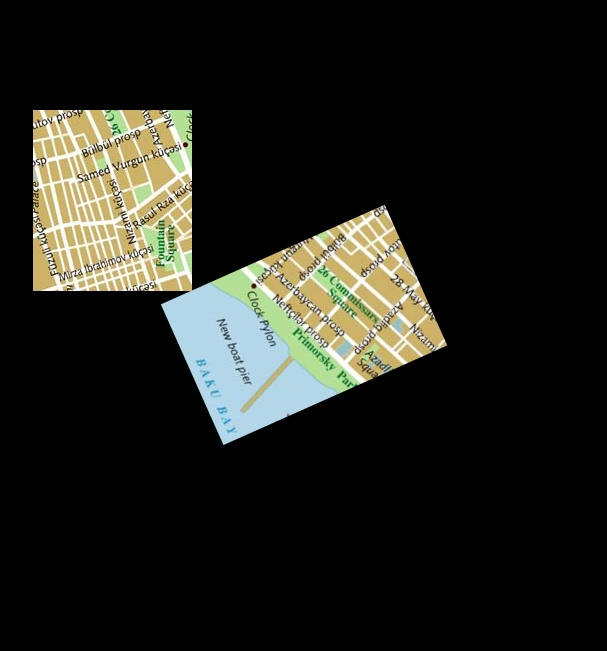
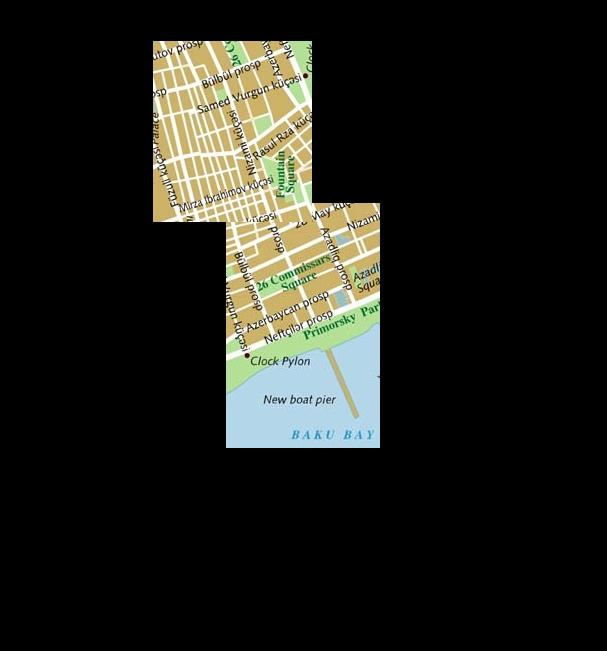
Algorithm is fully implemented, bugs should be found, the speed needs to be improved

Changed region(s): [[0.0297, 0.0614, 0.7414, 0.7066]]

diff --git a/ImageStitcher.py b/ImageStitcher.py
@@ -15,6 +15,7 @@ class ImageStitcher:
     BestY = 1
     Best_Rotate = 1
     canvas = None
+    coor_system = None
 
     def __init__(self, img1, img2, resize):
         self.img1 = img1
@@ -25,7 +26,6 @@ class ImageStitcher:
         self.h1, self.w1 = self.img1.shape[:2]
         self.h2, self.w2 = self.img2.shape[:2]
         self.img2_canvas_size = int(math.sqrt(math.pow(self.h2,2)+math.pow(self.w2,2)))
-
         print("H1: ",self.h1,"  W1: ",self.w1,"\nH2: ",self.h2,"  W2: ",self.w2)
         
     def getCornersOfImages(self,SHIFT):
@@ -33,8 +33,8 @@ class ImageStitcher:
         x_OffsetIMG2 = int((self.img2_canvas_size-self.w2)/2)
         SHIFT_X,SHIFT_Y, thetha = SHIFT
         rectangle1 = [(SHIFT_X,SHIFT_Y),(SHIFT_X,self.h1+SHIFT_Y),(self.w1+SHIFT_X,self.h1+SHIFT_Y),(self.w1+SHIFT_X,SHIFT_Y)]
-        rectangle2 = [(self.w1+x_OffsetIMG2,self.h1+x_OffsetIMG2),(self.w1+x_OffsetIMG2,self.h1+x_OffsetIMG2+self.h2),
-        (self.w1+x_OffsetIMG2+self.w2,self.h1+x_OffsetIMG2),(self.w1+x_OffsetIMG2+self.w2,self.h1+x_OffsetIMG2+self.h2)]
+        rectangle2 = [(self.w1+x_OffsetIMG2,self.h1+y_OffsetIMG2),(self.w1+x_OffsetIMG2,self.h1+y_OffsetIMG2+self.h2),
+        (self.w1+x_OffsetIMG2+self.w2,self.h1+y_OffsetIMG2+self.h2),(self.w1+x_OffsetIMG2+self.w2,self.h1+y_OffsetIMG2)]
         return rectangle1,rectangle2
 
     def calculateLoss(self,SHIFT):
@@ -43,15 +43,12 @@ class ImageStitcher:
         print("SHIFT_X: ",SHIFT_X,"    SHIFT_Y: ",SHIFT_Y,"    Angle: ",thetha)
         if (SHIFT_X>=self.w1+self.img2_canvas_size-self.img2_canvas_size*0.05 or SHIFT_Y>=self.h1+self.img2_canvas_size-self.img2_canvas_size*0.05 or SHIFT_Y<self.img2_canvas_size*0.05 or SHIFT_X<self.img2_canvas_size*0.05):
             return 255*3*self.w1*self.h1*self.h2*self.w2
-        coor_system = CoordinateSystem(self.getCornersOfImages(SHIFT))
-        coordinates_of_intersection = coor_system.get_indecies_on_rotate(SHIFT_X, SHIFT_Y,thetha)
-
-        image1 = self.canvas[:self.h1,:self.w1,:3]
-        image2 = self.canvas[self.h1+int((self.img2_canvas_size-self.h2)/2):self.h2+self.h1+int((self.img2_canvas_size-self.h2)/2), 
-        self.w1+int((self.img2_canvas_size-self.w2)/2):self.w1+self.w2+int((self.img2_canvas_size-self.w2)/2),
-        :3]
-
-        difference = np.square(np.subtract(image1[coordinates_of_intersection[0]],image2[coordinates_of_intersection[1]]))
+        self.coor_system.set_rectangles(self.getCornersOfImages((SHIFT_X,SHIFT_Y, thetha)))
+        coordinates_of_intersection = self.coor_system.get_indecies_on_rotate(SHIFT_X, SHIFT_Y,thetha)
+        if (coordinates_of_intersection == -1):
+            return 255*3*self.w1*self.h1*self.h2*self.w2
+        #self.drawImage(SHIFT_X, SHIFT_Y, thetha,100)
+        difference = np.square(np.subtract(self.canvas[coordinates_of_intersection[0]],self.canvas[coordinates_of_intersection[1]]))
         loss = np.mean(difference)
         return loss
 
@@ -83,6 +80,7 @@ class ImageStitcher:
         self.w1+int((self.img2_canvas_size-self.w2)/2):self.w1+self.w2+int((self.img2_canvas_size-self.w2)/2),
         :3] = self.img2
         self.canvas[:self.h1,:self.w1,:3] = self.img1
+        self.coor_system = CoordinateSystem((len(self.canvas[0]/2),len(self.canvas)/2))
 
         savedParameters = [[],[]]
         intitial_cors_x = np.linspace(0.1,1,n,False)

diff --git a/CoordinateSystem.py b/CoordinateSystem.py
@@ -8,17 +8,12 @@ class CoordinateSystem:
     rectangle2 = []
     centreOfRectangle2 = None
 
-    def __init__(self, rectangles):
-        self.rectangle1, self.rectangle2 = rectangles
-        self.centreOfRectangle2 = self.getCentreOfRectangle(self.rectangle2)
-
-    def getCentreOfRectangle(self,coordinates):
-        p = Polygon(coordinates)
-        bound = p.bounds
-        centreX = (bound[2] + bound[0])/2
-        centreY = (bound[3] + bound[1])/2
-        return centreX,centreY
+    def __init__(self,centre):
+        self.centreOfRectangle2 = centre
     
+    def set_rectangles(self,rectangles):
+        self.rectangle1, self.rectangle2 = rectangles
+
     def rotateTranslateCoordinates(self,coor,centreX,centreY,angle):
         X,Y = coor
         tempX = X - centreX
@@ -31,7 +26,7 @@ class CoordinateSystem:
 
     def rotateCornersOfImage2(self,angle):
         newRectangle = []
-        for coor in self.rectangle1:
+        for coor in self.rectangle2:
             newCorner = self.rotateTranslateCoordinates(coor,self.centreOfRectangle2[0],self.centreOfRectangle2[1],angle)
             newRectangle.append(newCorner)
         self.rectangle2 = newRectangle
@@ -39,15 +34,20 @@ class CoordinateSystem:
     def get_intersection_polygon(self):
         p1 = Polygon(self.rectangle1)
         p2 = Polygon(self.rectangle2)
-        intersection = p1.intersection(p2)
+        try:
+            intersection = p1.intersection(p2)
+        except:
+            print("PORCO")
         return intersection
 
     def get_coordinates_of_intersection(self):
         intersection = self.get_intersection_polygon()
+        if (intersection.area == 0.0):
+            return []
         coordinatesInPolygon = []
         bounds = intersection.bounds
-        for y in range(int(bounds[1]),int(bounds[3])):
-            for x in range(int(bounds[0]),int(bounds[2])):
+        for y in range(int(bounds[1]),int(bounds[3]-1)):
+            for x in range(int(bounds[0]),int(bounds[2]-1)):
                 if (intersection.contains(Point(x,y))):
                     coordinatesInPolygon.append((x,y))
         return coordinatesInPolygon
@@ -77,8 +77,11 @@ class CoordinateSystem:
         return values
 
     def get_indecies_on_rotate(self, SHIFT_X, SHIFT_Y, thetha):
-        self.rotateCornersOfImage2(thetha)
+        if (thetha != 0):
+            self.rotateCornersOfImage2(thetha)
         coordintes_of_intersection = self.get_coordinates_of_intersection()
+        if (coordintes_of_intersection == []):
+            return -1
         initialCoord2 = self.getCoorOfIntersectionInInitImg2(coordintes_of_intersection,self.centreOfRectangle2,-1*thetha)
         initialCoord1 = self.get_initial_coord1(coordintes_of_intersection, SHIFT_X, SHIFT_Y)
         return (self.get_numpy_format(initialCoord1),self.get_numpy_format(initialCoord2))

diff --git a/main.py b/main.py
@@ -7,8 +7,8 @@ class main:
 
     def mosaic2Images(img1,img2):
         mosaic = ImageStitcher(img1.copy(),img2.copy(),False)
-        mosaic.mosaicImages(5)
-        mosaic.drawImage(mosaic.BestX,mosaic.BestY,mosaic.Best_Rotate,1)
+        mosaic.mosaicImages(2)
+        mosaic.drawImage(mosaic.BestX,mosaic.BestY,mosaic.Best_Rotate,0)
 
     if __name__=='__main__':
         START_TIME = time.time()
